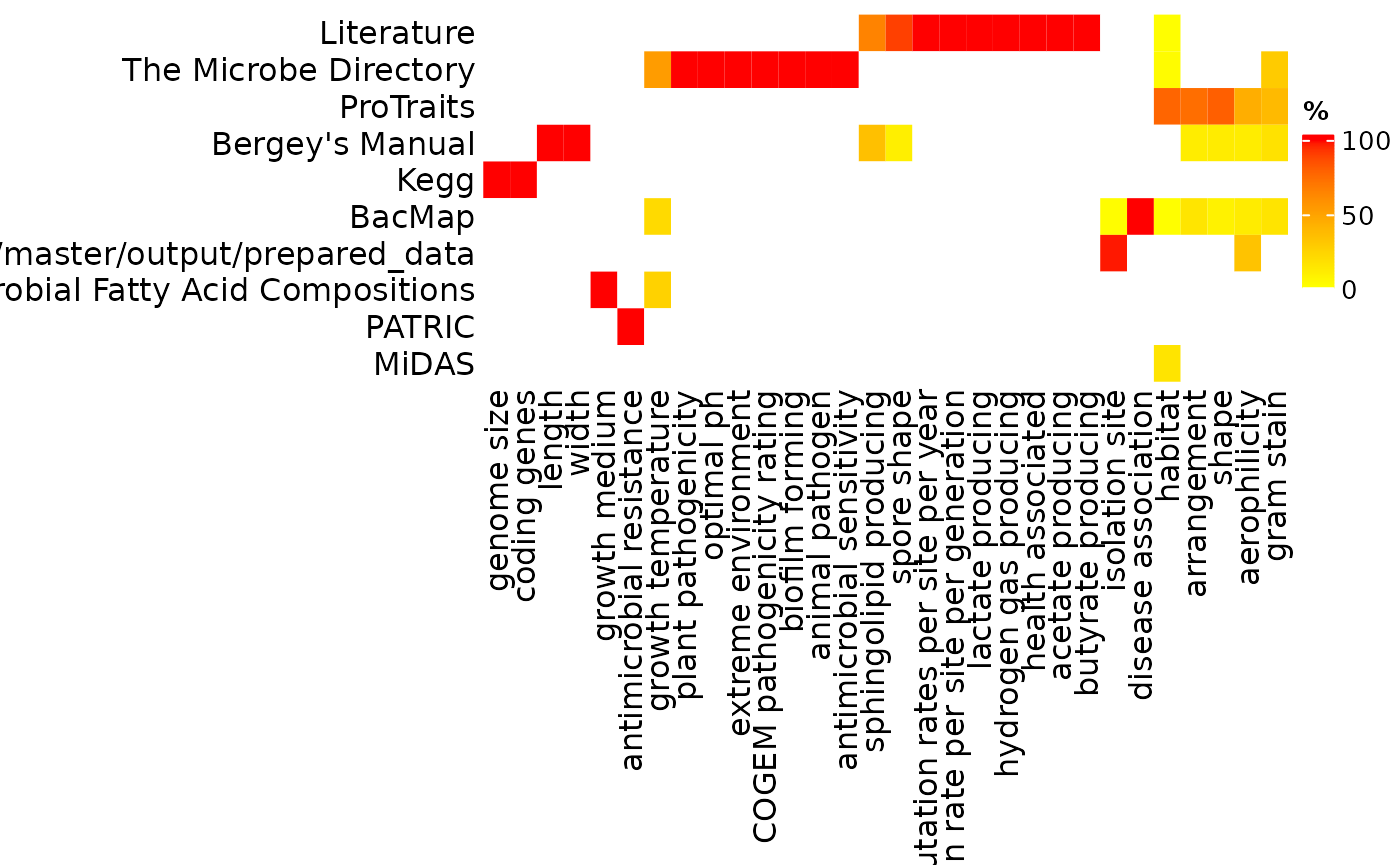
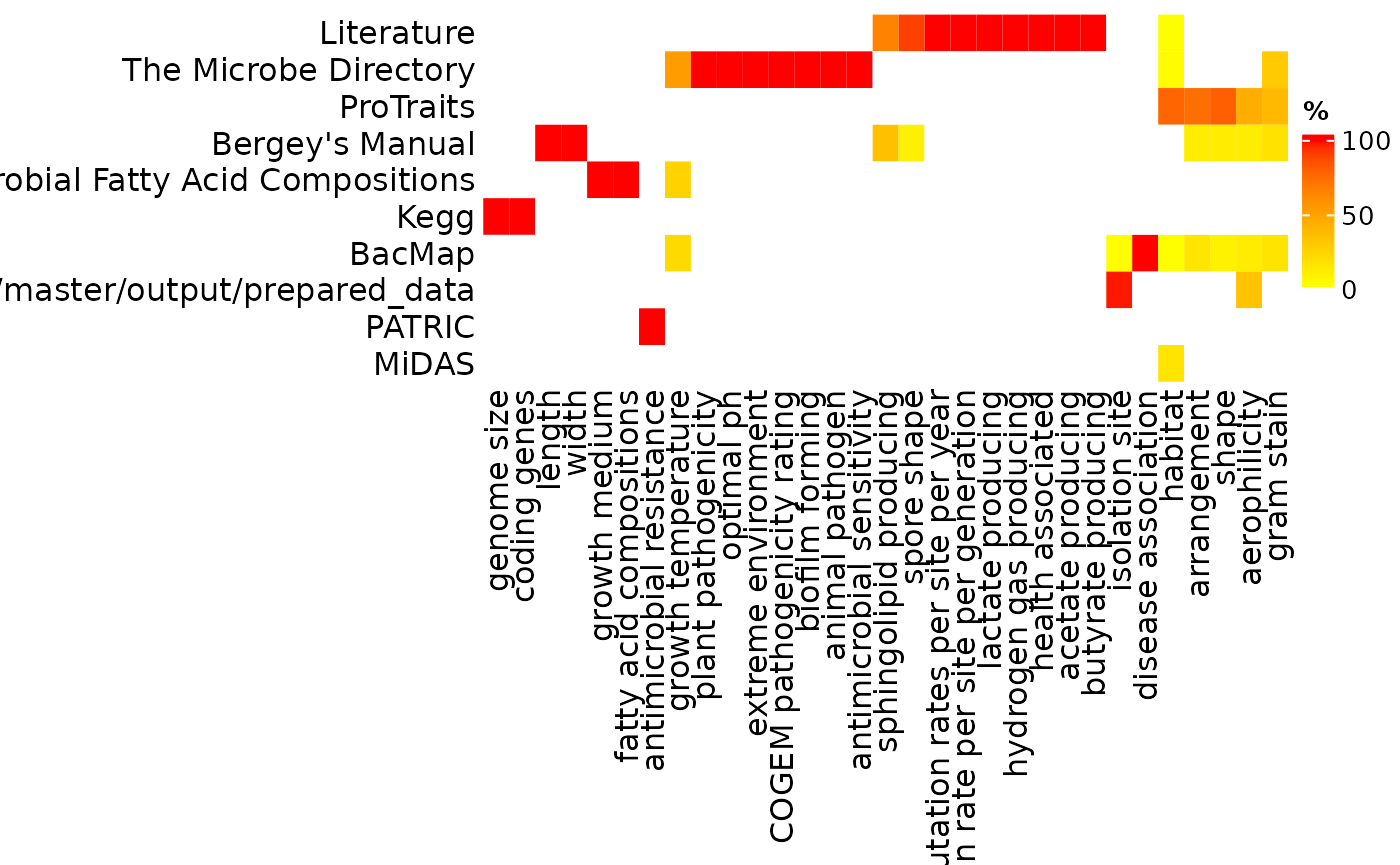
Built site for bugphyzzAnalyses: 0.1.0@d09ac12

diff --git a/articles/stats.html b/articles/stats.html
@@ -109,7 +109,7 @@
 </h2>
 <div class="sourceCode" id="cb2"><pre class="downlit sourceCode r">
 <code class="sourceCode R"><span><span class="va">phys</span> <span class="op">&lt;-</span> <span class="fu"><a href="https://rdrr.io/pkg/bugphyzz/man/physiologies.html" class="external-link">physiologies</a></span><span class="op">(</span><span class="op">)</span></span>
-<span><span class="co"># phys$`fatty acid compositions` &lt;- fattyAcidComposition()</span></span>
+<span><span class="va">phys</span><span class="op">$</span><span class="va">`fatty acid compositions`</span> <span class="op">&lt;-</span> <span class="fu"><a href="https://rdrr.io/pkg/bugphyzz/man/fattyAcidComposition.html" class="external-link">fattyAcidComposition</a></span><span class="op">(</span><span class="op">)</span></span>
 <span><span class="va">phys</span> <span class="op">&lt;-</span> <span class="fu"><a href="https://purrr.tidyverse.org/reference/map.html" class="external-link">map</a></span><span class="op">(</span><span class="va">phys</span>, <span class="va">as_tibble</span><span class="op">)</span></span></code></pre></div>
 </div>
 <div class="section level2">
@@ -132,7 +132,9 @@
 <span><span class="va">sources_tbl</span> <span class="op">&lt;-</span> <span class="va">phys_sources_mod</span> <span class="op">|&gt;</span> </span>
 <span>  <span class="fu"><a href="https://purrr.tidyverse.org/reference/map.html" class="external-link">map</a></span><span class="op">(</span><span class="op">~</span> <span class="fu"><a href="https://dplyr.tidyverse.org/reference/count.html" class="external-link">count</a></span><span class="op">(</span><span class="va">.x</span>, <span class="va">Attribute_source</span><span class="op">)</span><span class="op">)</span> <span class="op">|&gt;</span> </span>
 <span>  <span class="fu"><a href="https://dplyr.tidyverse.org/reference/bind.html" class="external-link">bind_rows</a></span><span class="op">(</span>.id <span class="op">=</span> <span class="st">'Attribute'</span><span class="op">)</span></span></code></pre></div>
-<p>Concatenate attributes per source</p>
+<div class="section level3">
+<h3 id="table-of-sources">Table of sources<a class="anchor" aria-label="anchor" href="#table-of-sources"></a>
+</h3>
 <div class="sourceCode" id="cb4"><pre class="downlit sourceCode r">
 <code class="sourceCode R"><span><span class="va">sources_cat</span> <span class="op">&lt;-</span> <span class="va">sources_tbl</span> <span class="op">|&gt;</span> </span>
 <span>  <span class="fu"><a href="https://dplyr.tidyverse.org/reference/select.html" class="external-link">select</a></span><span class="op">(</span><span class="op">-</span><span class="va">n</span><span class="op">)</span> <span class="op">|&gt;</span> </span>
@@ -145,12 +147,16 @@
 <span>  <span class="fu"><a href="https://dplyr.tidyverse.org/reference/group_by.html" class="external-link">ungroup</a></span><span class="op">(</span><span class="op">)</span> <span class="op">|&gt;</span> </span>
 <span>  <span class="fu"><a href="https://dplyr.tidyverse.org/reference/rename.html" class="external-link">rename</a></span><span class="op">(</span>Sources <span class="op">=</span> <span class="va">Attribute_source</span><span class="op">)</span></span>
 <span><span class="fu"><a href="../reference/createDT.html">createDT</a></span><span class="op">(</span><span class="va">sources_cat</span><span class="op">)</span></span></code></pre></div>
-<div id="htmlwidget-caeef4d5625011ee2a81" style="width:100%;height:auto;" class="datatables html-widget"></div>
-<script type="application/json" data-for="htmlwidget-caeef4d5625011ee2a81">{"x":{"filter":"none","vertical":false,"extensions":["Buttons"],"data":[["BacMap","Bergey's Manual","https://github.com/bacteria-archaea-traits/bacteria-archaea-traits/tree/master/output/prepared_data","Kegg","Literature","Microbial Fatty Acid Compositions","MiDAS","PATRIC","ProTraits","The Microbe Directory"],["aerophilicity, arrangement, disease association, gram stain, growth temperature, habitat, isolation site, shape","aerophilicity, arrangement, gram stain, length, shape, sphingolipid producing, spore shape, width","aerophilicity, isolation site","coding genes, genome size","acetate producing, butyrate producing, habitat, health associated, hydrogen gas producing, lactate producing, mutation rate per site per generation, mutation rates per site per year, sphingolipid producing, spore shape","growth medium, growth temperature","habitat","antimicrobial resistance","aerophilicity, arrangement, gram stain, habitat, shape","animal pathogen, antimicrobial sensitivity, biofilm forming, COGEM pathogenicity rating, extreme environment, gram stain, growth temperature, habitat, optimal ph, plant pathogenicity"]],"container":"<table class=\"display\">\n  <thead>\n    <tr>\n      <th>Sources<\/th>\n      <th>Attributes<\/th>\n    <\/tr>\n  <\/thead>\n<\/table>","options":{"dom":"Brti","buttons":{"extend":["copy","csv","excel","pdf","print"],"title":null},"columnDefs":[],"order":[],"autoWidth":false,"orderClasses":false}},"evals":[],"jsHooks":[]}</script><p>Create count table of all of the attributes:</p>
+<div id="htmlwidget-3227c693644e08de5aa4" style="width:100%;height:auto;" class="datatables html-widget"></div>
+<script type="application/json" data-for="htmlwidget-3227c693644e08de5aa4">{"x":{"filter":"none","vertical":false,"extensions":["Buttons"],"data":[["BacMap","Bergey's Manual","https://github.com/bacteria-archaea-traits/bacteria-archaea-traits/tree/master/output/prepared_data","Kegg","Literature","Microbial Fatty Acid Compositions","MiDAS","PATRIC","ProTraits","The Microbe Directory"],["aerophilicity, arrangement, disease association, gram stain, growth temperature, habitat, isolation site, shape","aerophilicity, arrangement, gram stain, length, shape, sphingolipid producing, spore shape, width","aerophilicity, isolation site","coding genes, genome size","acetate producing, butyrate producing, habitat, health associated, hydrogen gas producing, lactate producing, mutation rate per site per generation, mutation rates per site per year, sphingolipid producing, spore shape","fatty acid compositions, growth medium, growth temperature","habitat","antimicrobial resistance","aerophilicity, arrangement, gram stain, habitat, shape","animal pathogen, antimicrobial sensitivity, biofilm forming, COGEM pathogenicity rating, extreme environment, gram stain, growth temperature, habitat, optimal ph, plant pathogenicity"]],"container":"<table class=\"display\">\n  <thead>\n    <tr>\n      <th>Sources<\/th>\n      <th>Attributes<\/th>\n    <\/tr>\n  <\/thead>\n<\/table>","options":{"dom":"Brti","buttons":[{"extend":"copy","title":null},{"extend":"csv","title":null},{"extend":"excel","title":null},{"extend":"pdf","title":null},{"extend":"print","title":null}],"columnDefs":[],"order":[],"autoWidth":false,"orderClasses":false}},"evals":[],"jsHooks":[]}</script><p>Create count table of all of the attributes</p>
 <div class="sourceCode" id="cb5"><pre class="downlit sourceCode r">
 <code class="sourceCode R"><span><span class="va">sources_counts</span> <span class="op">&lt;-</span> <span class="va">phys_sources_mod</span> <span class="op">|&gt;</span> </span>
 <span>  <span class="fu"><a href="https://purrr.tidyverse.org/reference/map.html" class="external-link">map</a></span><span class="op">(</span><span class="op">~</span> <span class="fu"><a href="https://dplyr.tidyverse.org/reference/count.html" class="external-link">count</a></span><span class="op">(</span><span class="va">.x</span>, <span class="va">Attribute_source</span><span class="op">)</span><span class="op">)</span> <span class="op">|&gt;</span> </span>
 <span>  <span class="fu"><a href="https://dplyr.tidyverse.org/reference/bind.html" class="external-link">bind_rows</a></span><span class="op">(</span>.id <span class="op">=</span> <span class="st">'Attribute'</span><span class="op">)</span></span></code></pre></div>
+</div>
+<div class="section level3">
+<h3 id="count-mattrix">Count mattrix<a class="anchor" aria-label="anchor" href="#count-mattrix"></a>
+</h3>
 <p>Create count matrix and matrix of proportions for each source and attribute</p>
 <div class="sourceCode" id="cb6"><pre class="downlit sourceCode r">
 <code class="sourceCode R"><span><span class="va">count_mat</span> <span class="op">&lt;-</span> <span class="va">sources_counts</span> <span class="op">|&gt;</span> </span>
@@ -169,6 +175,7 @@
 <span>  col <span class="op">=</span> <span class="fu">circlize</span><span class="fu">::</span><span class="fu"><a href="https://rdrr.io/pkg/circlize/man/colorRamp2.html" class="external-link">colorRamp2</a></span><span class="op">(</span><span class="fu"><a href="https://rdrr.io/r/base/c.html" class="external-link">c</a></span><span class="op">(</span><span class="fl">0</span>, <span class="fl">1</span>, <span class="fl">100</span><span class="op">)</span>, <span class="fu"><a href="https://rdrr.io/r/base/c.html" class="external-link">c</a></span><span class="op">(</span><span class="st">"white"</span>, <span class="st">'yellow'</span>, <span class="st">"red"</span><span class="op">)</span><span class="op">)</span></span>
 <span><span class="op">)</span></span></code></pre></div>
 <p><img src="stats_files/figure-html/unnamed-chunk-6-1.png" width="700"></p>
+</div>
 </div>
   </div>
 
